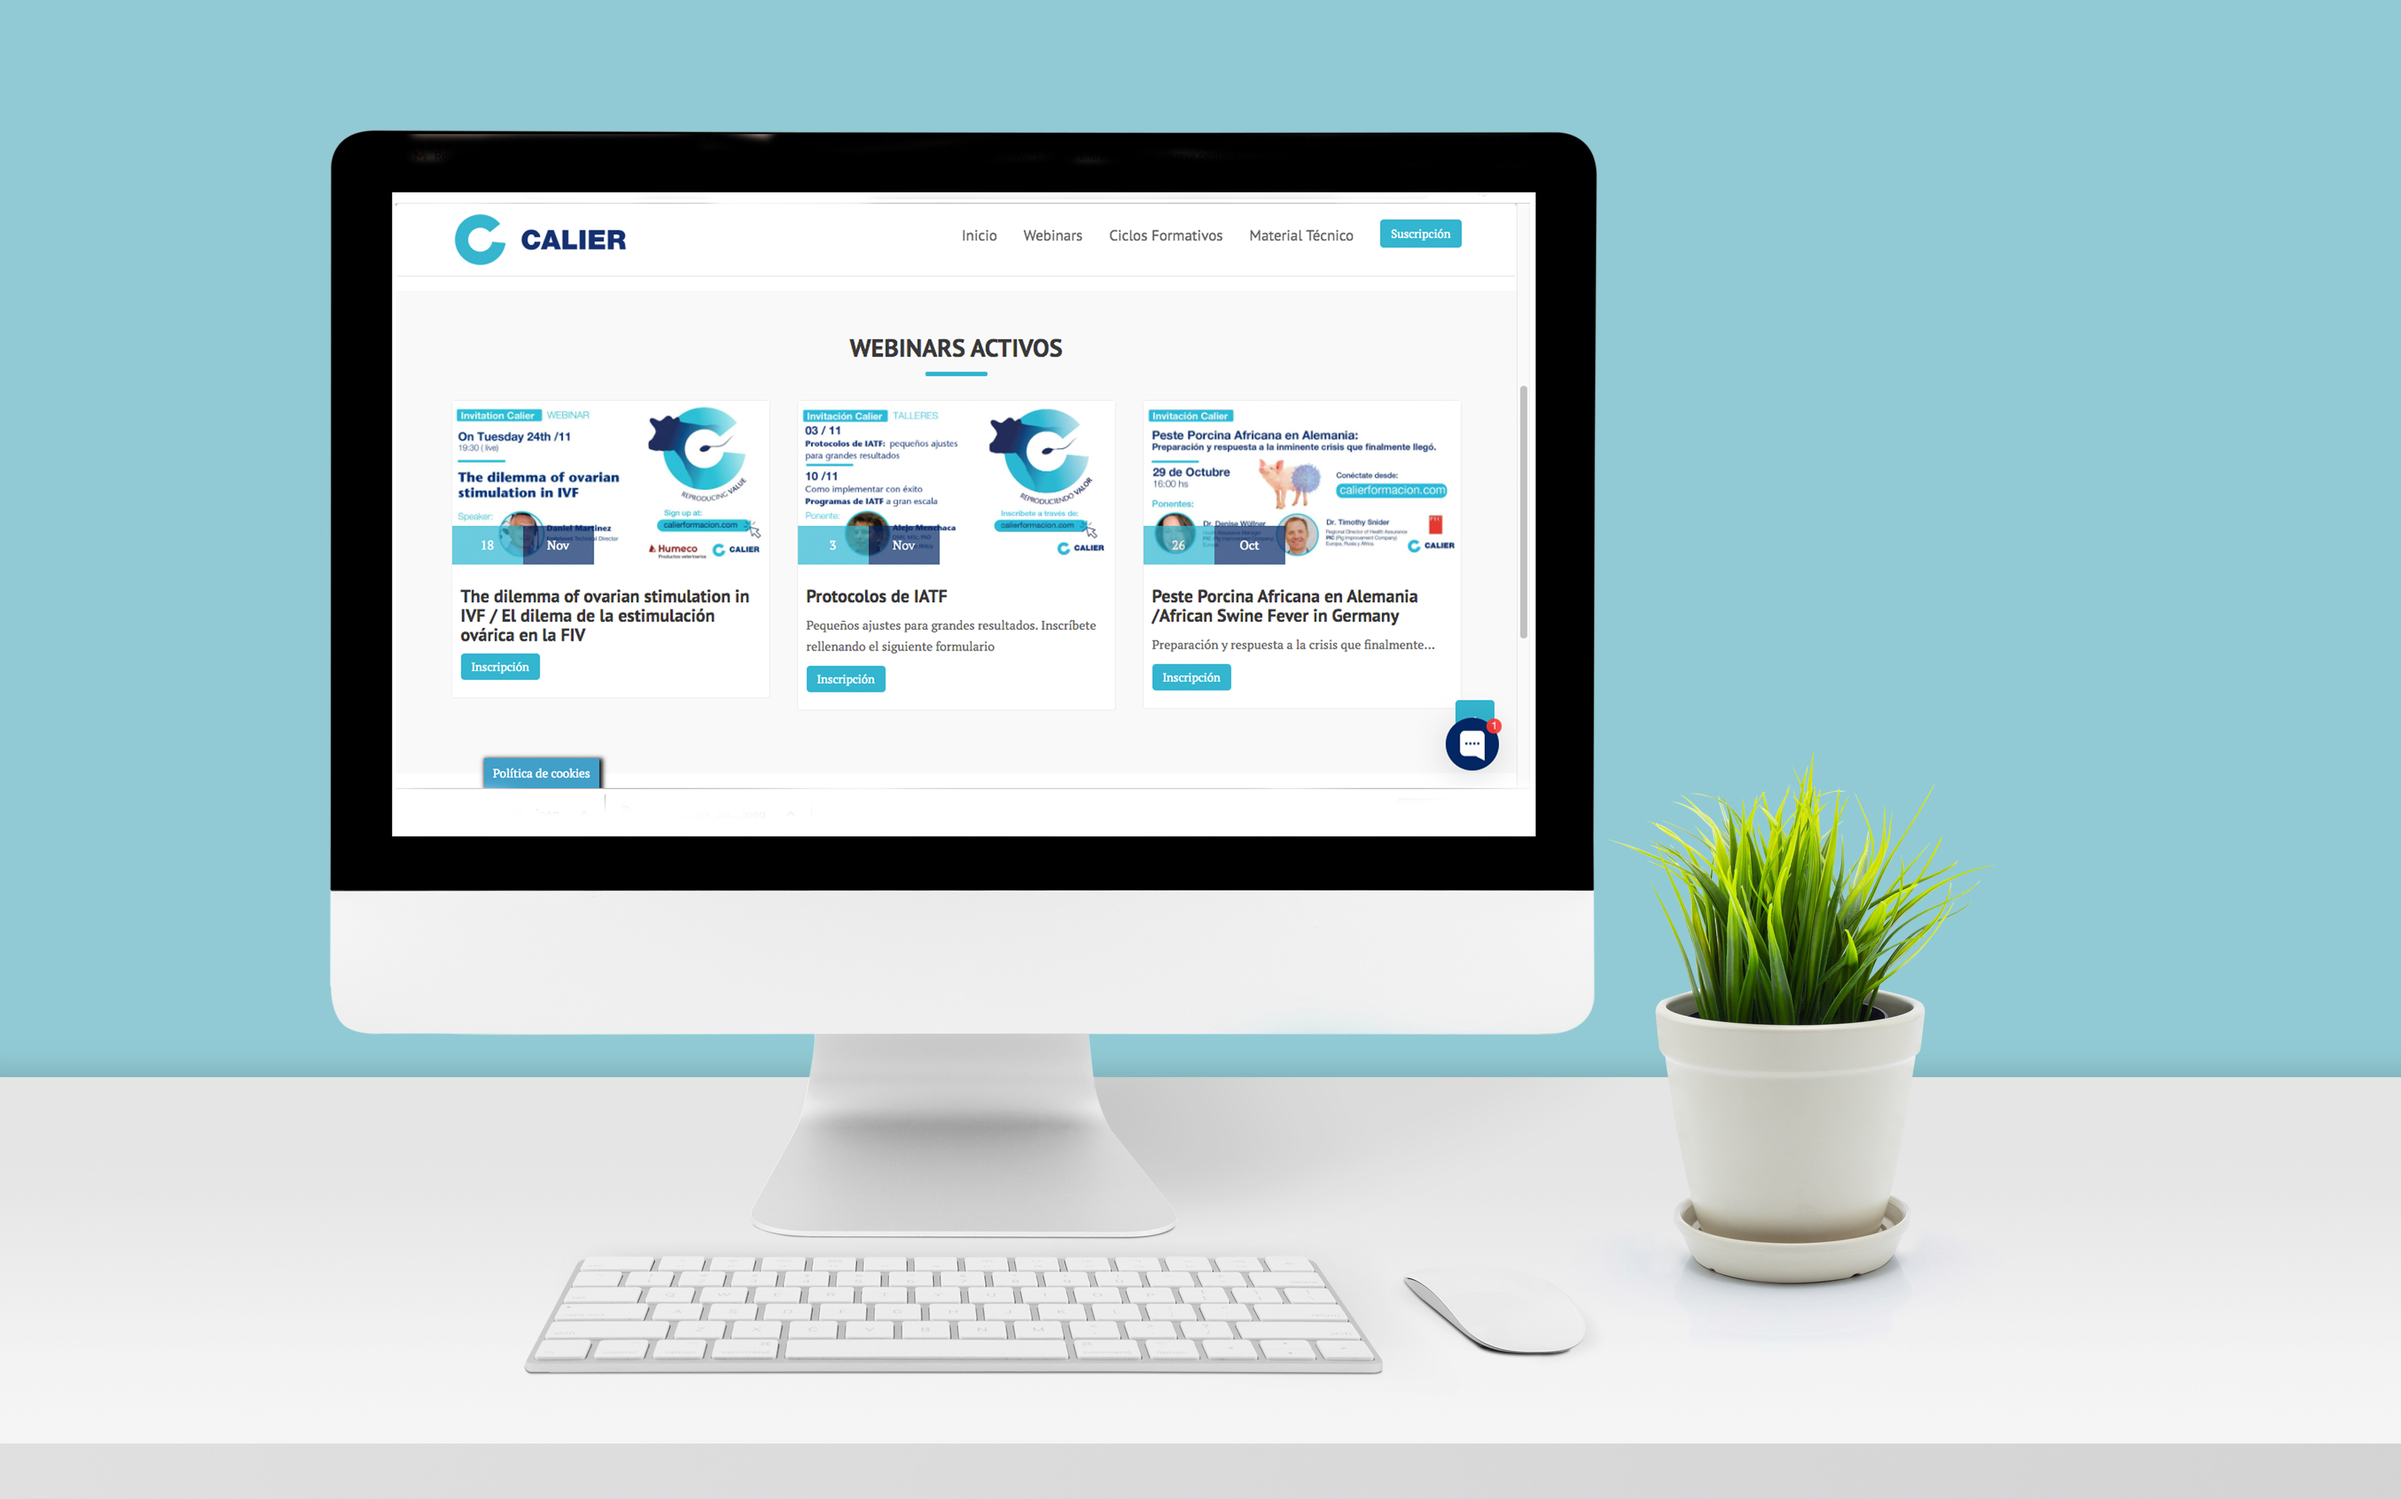
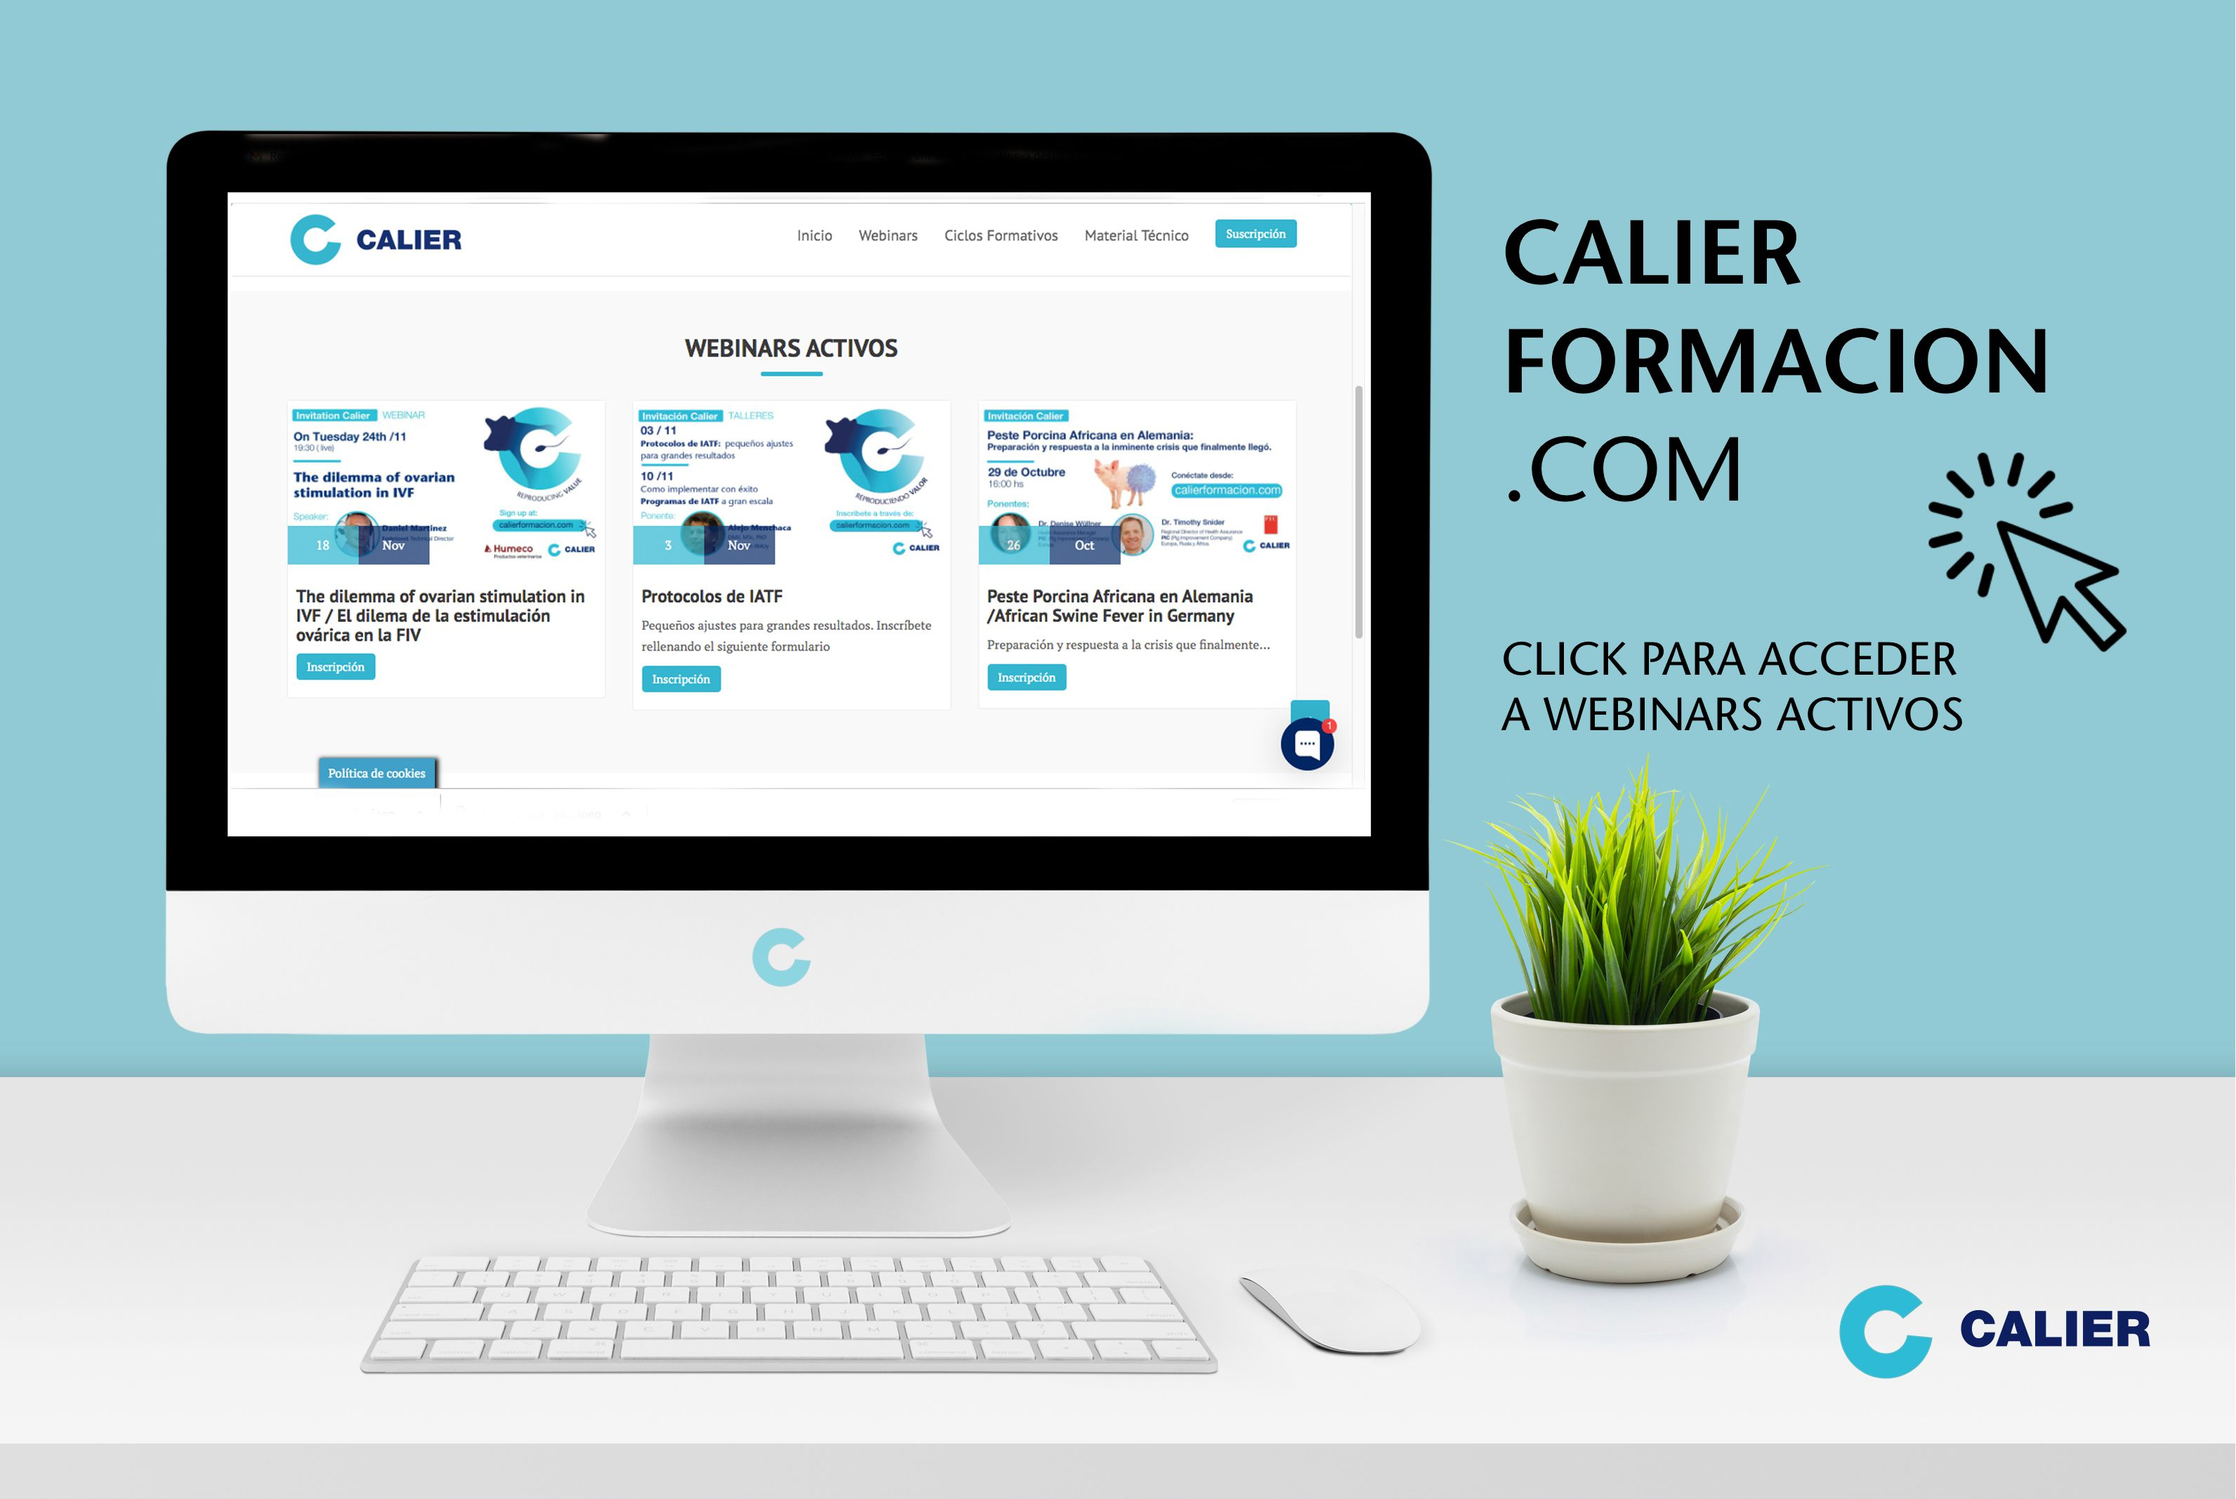
add new imgs

diff --git a/src/components/Sponsor.jsx b/src/components/Sponsor.jsx
@@ -28,25 +28,22 @@ import Logo from "../logo.png";
 
 const sponsorsData = {
   'zoetis': {
-    info: 'Zoetis es una compañía global de salud animal dedicada a apoyar a sus clientes y sus negocios en la mejor forma posible. Basados en 60 años de experiencia, entregamos medicamentos y vacunas de calidad, apoyo y educación.Estamos trabajando cada día para comprender y atender mejor los desafíos del mundo real que enfrentan aquellos que crían y cuidan de los animales en formas que ellos consideren verdaderamente relevantes.',
-    mail: 'zoetis@gmail.com',
-    videoUrl: 'https://www.youtube.com/embed/ZxXKNR12MuQ',
-    zoomUrl: 'https://www.google.com',
-    webUrl: 'https://ar.zoetis.com/',
+    info: 'Zoetis es una compañía global de salud animal dedicada a apoyar a sus clientes y sus negocios en la mejor forma posible. Basados en 60 años de experiencia, entregamos medicamentos y vacunas de calidad, apoyo y educación.\nZoetis ofrece un completo portfolio de productos de calidad, para ayudar a los ganaderos y veterinarios a desarrollar sus programas de salud adaptados a su explotación. Una gama completa de productos eficaces, seguros y de confianza, respaldados por la experiencia de una compañía líder en el sector de la salud animal, es la garantía que ofrece Zoetis a sus colaboradores.',
+    mail: 'marketing@zoetis.com',
+    videoUrl: 'https://www.youtube.com/embed/8OF0xpjK7no',
+    webUrl: 'https://ar.zoetis.com/species/bovino.aspx',
     logo: Zoetis,
   },
   'pfizer': {
     info: 'En Pfizer Trabajamos para desarrollar innovaciones que cambien la vida de los pacientes. La salud es un valor esencial para todos nosotros, por eso aplicamos la ciencia y nuestros recursos globales para brindar terapias que ayudan a extender y mejorar sustancialmente la vida de las personas en todas las etapas de la vida. Contamos con opciones terapéuticas de vanguardia para la prevención y el tratamiento de enfermedades a través de una amplia gama de áreas terapéuticas. Además, contamos con una línea de investigación líder en la industria para el desarrollo de nuevos productos con un potencial prometedor para desafiar algunas de las enfermedades más temidas de nuestro tiempo.',
     mail: 'pfizer@gmail.com',
     videoUrl: 'https://www.youtube.com/embed/ZxXKNR12MuQ',
-    zoomUrl: 'https://www.google.com',
     webUrl: 'https://www.pfizer.com.ar/'
   },
   'over': {
     info: 'OVER es una empresa argentina especializada en la elaboración, comercialización y distribución de productos de alta calidad para uso en medicina veterinaria.\nOfrece al mercado uno de los vademécums más completos, con más de 200 productos, cubriendo aproximadamente el 90% de las necesidades del profesional veterinario.\nSus instalaciones están equipadas con tecnología de última generación para la producción de medicamentos bajo normas internacionales de calidad BPFPV/GMP, el tratamiento de efluentes, la preservación del medio ambiente y la protección del personal.\nOVER, Ciencia para la salud.',
     mail: 'marketing@over.com.ar',
     videoUrl: 'https://www.youtube.com/embed/hZd9fDOKYoM',
-    zoomUrl: 'https://www.google.com',
     webUrl: 'http://www.over.com.ar',
     photo: OverFoto,
     logo: Over
@@ -58,13 +55,13 @@ const sponsorsData = {
     zoomUrl: 'https://us04web.zoom.us/j/9150652935?pwd=c09ydmt0YS9uM0tlQ0M5QnQ5TnVtZz09',
     webUrl: 'http://www.calier.com.ar',
     photo: CalierFoto,
-    logo: Calier
+    logo: Calier,
+    imgLinkUrl: 'https://calierformacion.com/'
   },
   'vetanco': {
     info: 'Vetanco es un laboratorio veterinario internacional que desde hace 30 años desarrolla, elabora y comercializa productos innovadores para la salud y la producción animal.\nPresente en más de 40 países ofrece productos internacionalmente probados, controlados y seguros.\nComo referente internacional en aditivos y especialidades para la agroindustria su portafolio de productos es amplio y diversificado.\nVetanco cuenta con proyectos de investigación de la más avanzada tecnología, tanto en sus laboratorios de I+D como en colaboración con centros de excelencia en todo el mundo. ',
     mail: 'vetanco@vetanco.com',
     videoUrl: 'https://www.youtube.com/embed/rx2Nfr-eA_k',
-    zoomUrl: 'https://www.google.com',
     webUrl: 'https://www.vetanco.com/',
     photo: VetancoFoto,
     logo: Vetanco
@@ -73,7 +70,6 @@ const sponsorsData = {
     info: 'CIALE Alta existe para más que producir y comercializar semen de toros de alto calibre. CIALE Alta trabaja con sus clientes para crear valor para ellos esforzándose por comprender y estar a la altura de sus necesidades y objetivos individuales. La diferencia la marcan los programas innovadores y los servicios reproductivos. Proveer programas personalizados que sean específicos para las necesidades individuales de cada cliente, esa es la promesa detrás de la marca de CIALE Alta, promesa que busca mejorar de manera tangible la rentabilidad individual de cada rodeo.',
     mail: 'info@ciale.com',
     videoUrl: 'https://www.youtube.com/embed/La_NQRlzA-Q',
-    zoomUrl: 'https://www.google.com',
     webUrl: 'https://www.ciale.com',
     photo: CialeFoto,
     logo: Ciale
@@ -82,7 +78,6 @@ const sponsorsData = {
     info: 'Proagro es un laboratorio de medicamentos veterinarios para grandes y pequeños animales avalado por 50 años de trayectoria en el mercado. Con una expansión cada vez mayor a nivel mundial, se asienta como una de las empresas con mayor solidez en la ciudad de Rosario.\nDesde 2008, cuenta con la certificación GMP, asegurando la incorporación de productos confiables, trazables y seguros al mercado nacional e internacional.\nLa empresa tiene un fuerte compromiso social: colabora habitualmente con distintas fundaciones, instituciones, escuelas, hospitales y diversas organizaciones afines.',
     mail: 'info@proagrolab.com.ar',
     videoUrl: 'https://www.youtube.com/embed/JVpscsITY3s',
-    zoomUrl: 'https://www.google.com',
     webUrl: 'https://www.proagrolab.com.ar',
     photo: ProagroFoto,
     logo: Proagro
@@ -101,7 +96,7 @@ const sponsorsData = {
     mail: 'ana.donovan@pahc.com',
     videoUrl: 'https://www.youtube.com/embed/fKRAH2iu81E',
     zoomUrl: 'https://us02web.zoom.us/j/84124551180',
-    webUrl: 'https://phibrosaludanimal.com/consulta-tecnica',
+    webUrl: 'https://www.minitube.com/catalog/es/bovino/',
     photo: PhibroFoto,
     logo: Phibro
   },
@@ -109,7 +104,6 @@ const sponsorsData = {
     info: 'Somos una empresa de familia que crece y se profesionaliza con vocación de acompañar al veterinario en su tarea diaria y comprometidos con la sanidad animal.\nFatro, laboratorio líder en Europa, forma parte de nuestra sociedad.\nDesde hace más de 60 años, iniciamos un camino de crecimiento sostenido tanto en áreas productivas, líneas terapéuticas y en los países donde estamos presentes.\nHoy somos más de 100 personas trabajando juntos, contamos con más de 100 productos y estamos presentes en 16 países, en muchos, con posiciones de liderazgo.\nFuimos de los primeros laboratorios en Argentina en obtener la certificación GMP lo que garantiza la máxima seguridad y confiabilidad de nuestros productos.\nDesde siempre, promovemos los valores de compromiso, respeto y mejora continua, reflejados en la calidad de nuestros productos y en el profesionalismo comercial.',
     mail: 'consultas@fatrovonfranken.com.ar',
     videoUrl: 'https://www.youtube.com/embed/oEPVQy1Tv5I',
-    zoomUrl: 'https://www.google.com',
     webUrl: 'https://www.fatrovonfranken.com/',
     logo: VonFranken
   },
@@ -162,12 +156,13 @@ const useStyles = makeStyles({
     '&:hover': {
       cursor: 'pointer'
     }
+  },
+  imgWithLink: {
+    '&:hover': {
+      cursor: 'pointer'
+    }
   }
 });
-
-const goToHome = () => {
-  window.location.href = './#/';
-}
 
 const Sponsor = () => {
   let { sponsorId } = useParams();
@@ -175,6 +170,16 @@ const Sponsor = () => {
 
   if (!sponsorId || !sponsorsData[sponsorId]) {
     return <Redirect to="/" />
+  }
+
+  const goToImgLink = (url) => {
+    if (url){
+      window.location.href = url;
+    }
+  }
+
+  const goToHome = () => {
+    window.location.href = './#/';
   }
 
   const sponsor = sponsorsData[sponsorId];
@@ -202,25 +207,25 @@ const Sponsor = () => {
 
       <div style={{ display: 'table', margin: '0 auto', paddingBottom: '45px' }}>
         <Button className={classes.sponsorBtn} style={{ position: 'relative', right: '10px' }} target="_blank" href={sponsor.webUrl} size="small" variant="contained" >Web institucional</Button>
-        {sponsor.zoomUrl ? <Button className={classes.sponsorBtn} style={{ position: 'relative', left: '10px' }} target="_blank" href={sponsor.zoomUrl} size="small" >Link al zoom</Button> : null }
+        {sponsor.zoomUrl ? <Button className={classes.sponsorBtn} style={{ position: 'relative', left: '10px' }} target="_blank" href={sponsor.zoomUrl} size="small" >Link al zoom</Button> : null}
       </div>
 
-      <div style={{ textAlign: 'center' , marginBottom: '45px'}}>
-        <img style={{ width: '1080px', display: 'inline-block' }} src={sponsor.photo}></img>
+      <div style={{ textAlign: 'center', marginBottom: '45px' }} className={sponsor.imgLinkUrl ? classes.imgWithLink : ''}>
+        <img style={{ width: '1080px', display: 'inline-block' }} onClick={() => goToImgLink(sponsor.imgLinkUrl)} src={sponsor.photo}></img>
       </div>
 
       <Card className={classes.root} variant="outlined" style={{ paddingLeft: '15px', paddingTop: '0px' }} >
         <CardContent className={classes.content} style={{ color: 'black', }}>
-          <Typography className={classes.title} gutterBottom style={{ fontWeight: 'bold', fontSize: '18px' }}>
+          <Typography className={classes.title} gutterBottom style={{  fontFamily: 'Oswald', fontWeight: 'bold', fontSize: '18px' }}>
             Acerca de
           </Typography>
-          <Typography className={classes.pos} style={{ marginLeft: '15px' }} component="p">
+          <Typography className={classes.pos} style={{ marginLeft: '15px',  fontFamily: 'Oswald', }} component="p">
             {sponsor.info}
           </Typography>
-          <Typography style={{ fontWeight: 'bold', fontSize: '18px' }}>
+          <Typography style={{ fontWeight: 'bold', fontSize: '18px',  fontFamily: 'Oswald', }}>
             Contacto:
           </Typography>
-          <Typography style={{ marginLeft: '5px' }} className={classes.pos} >
+          <Typography style={{ marginLeft: '5px',  fontFamily: 'Oswald', }} className={classes.pos} >
             {sponsor.mail}
           </Typography>
         </CardContent>

diff --git a/src/components/Home.jsx b/src/components/Home.jsx
@@ -11,7 +11,7 @@ import Zoovet from "../logosPrincipal/zoovet.png";
 import ProAgro from "../logosPrincipal/proagro.png";
 
 
-import Calier from "../logosPrincipal/calier.png";
+import Calier from "../logosPrincipal/calier.jpg";
 import Vetanco from "../logosPrincipal/vetanco.png";
 import AllVet from "../logosPrincipal/allvet.jpg";
 import Ciale from "../logosPrincipal/ciale.png";
@@ -216,7 +216,7 @@ const Home = () => {
           </Typography>
           <div style={{ display: 'inline-flex' }}>
             <div className={classes.sponsorSec} onClick={() => goToSponsor('calier')}>
-              <img className={classes.sponsorSecImg} style={{ position: 'relative', left: '8px', top: '21px', width: '130px' }} src={Calier}></img>
+              <img className={classes.sponsorSecImg} style={{ position: 'relative', left: '3px', top: '28px', width: '90px' }} src={Calier}></img>
             </div>
             <div className={classes.sponsorSec} onClick={() => goToSponsor('vetanco')}>
               <img className={classes.sponsorSecImg} style={{ position: 'relative', width: '140px', right: '4px', top: '22px', paddingTop: '10px', paddingBottom: '3px' }} src={Vetanco}></img>
